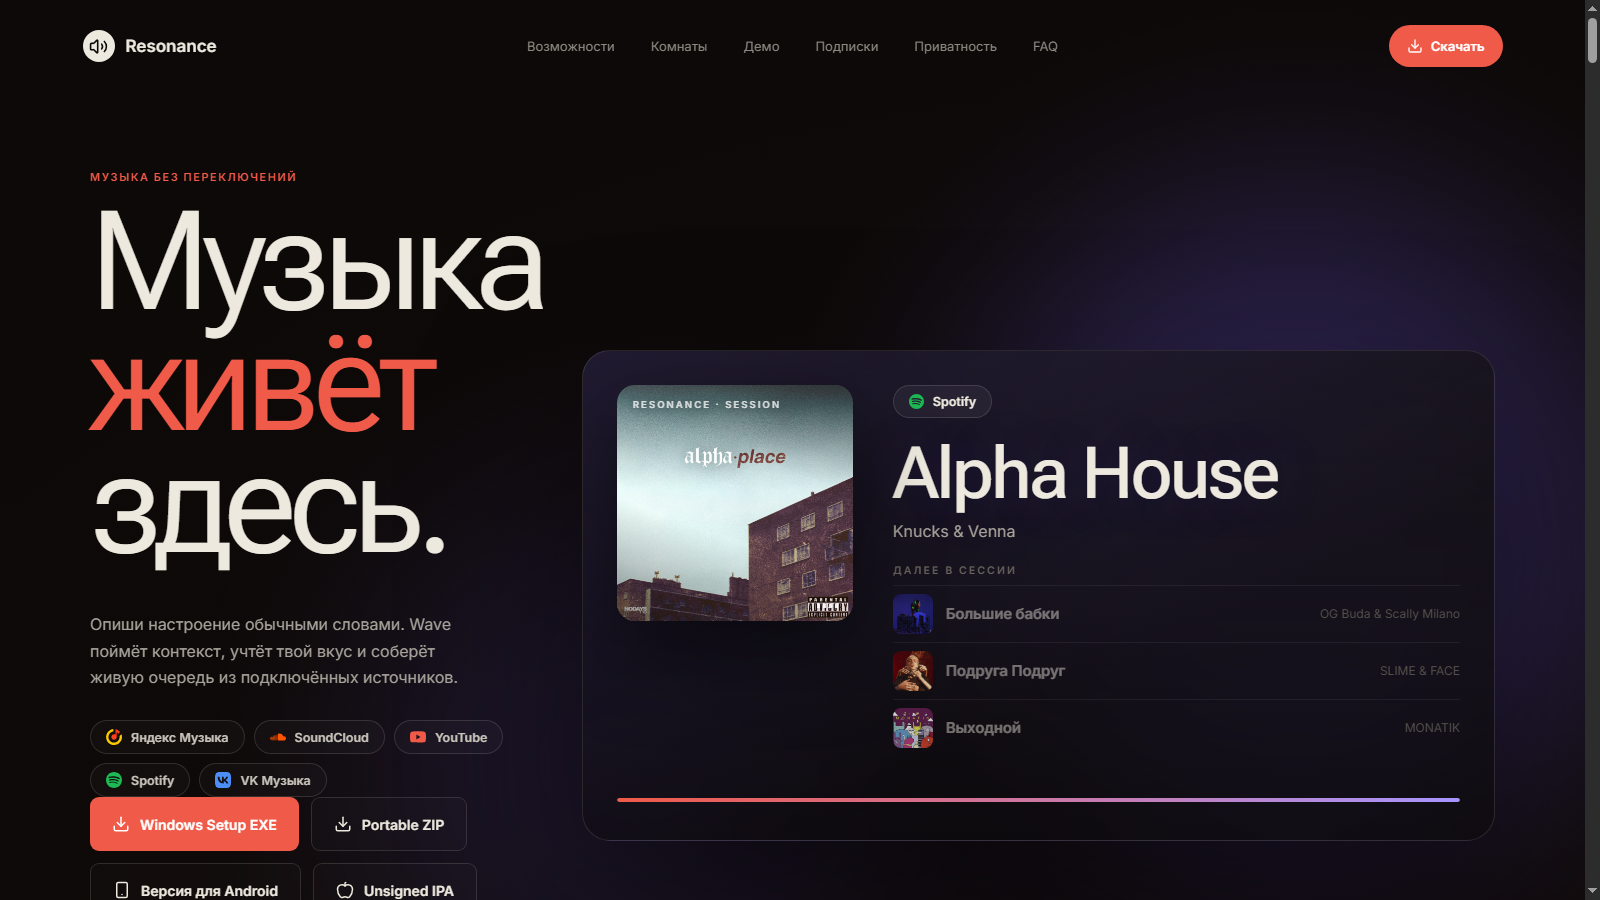
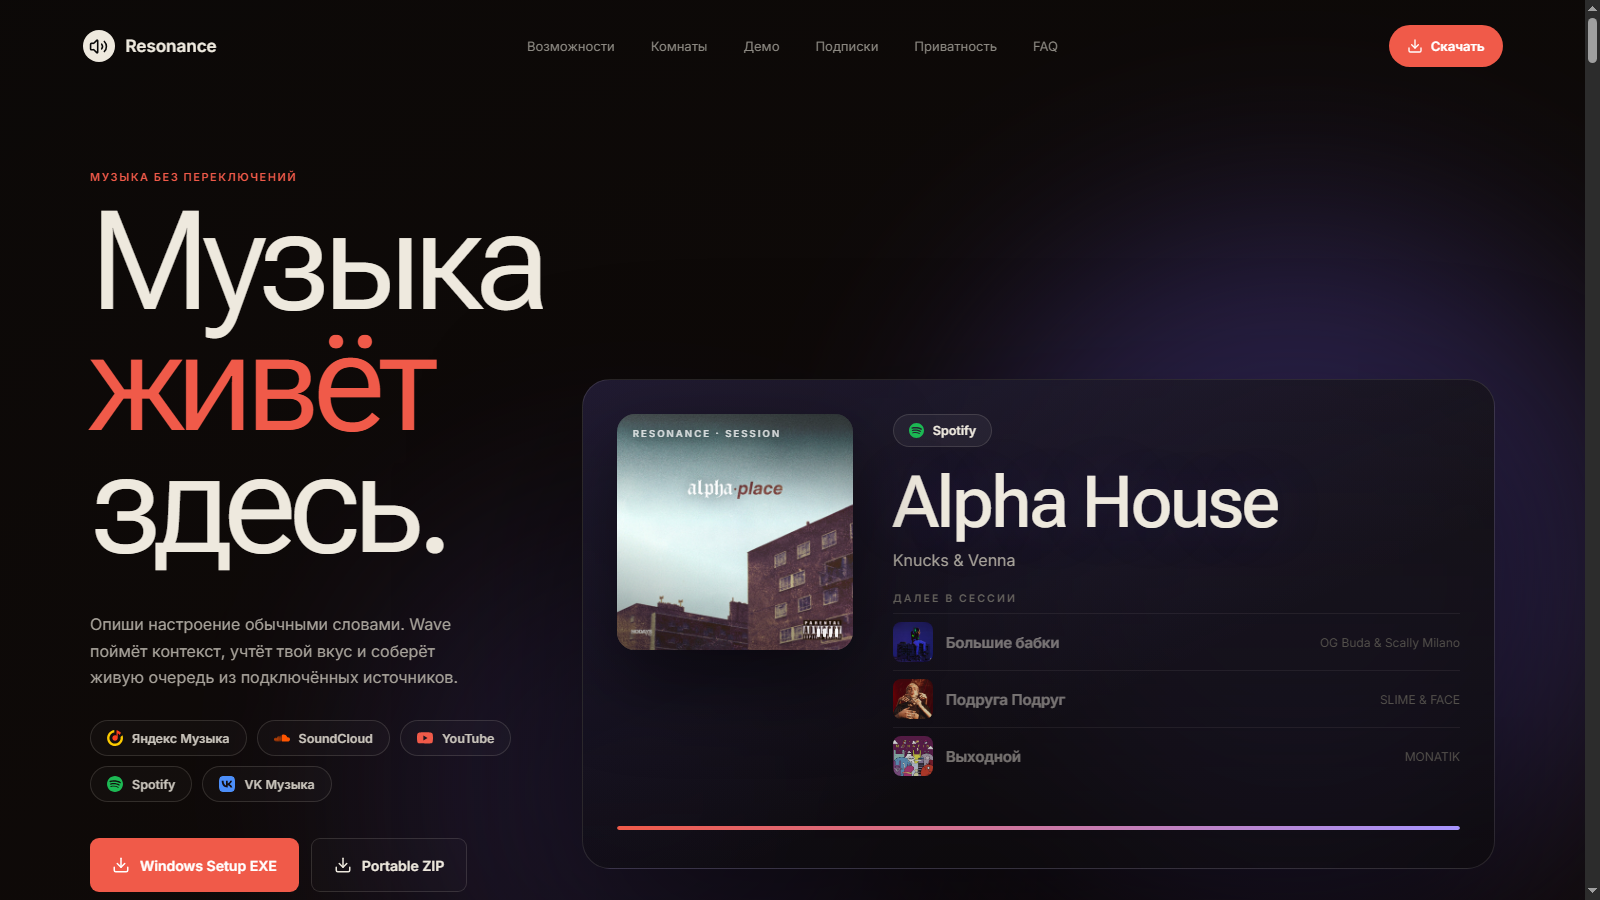
feat(landing): real session playlist across sections, hero spacing fixes

diff --git a/apps/landing/src/components/DemoSandbox.tsx b/apps/landing/src/components/DemoSandbox.tsx
@@ -1,45 +1,44 @@
 import { useEffect, useRef, useState, type FormEvent, type MouseEvent } from "react";
 import { Check, Link2, Music, Pause, Play, SkipBack, SkipForward, Sparkles } from "lucide-react";
+import { SESSION_TRACKS, type SessionTrack } from "../session";
 
-type Track = {
-  title: string;
-  artist: string;
-  source: "SoundCloud" | "Яндекс Музыка" | "Spotify" | "VK Музыка";
-  duration: number;
-};
+type Track = SessionTrack;
+
+const byTitle = (title: string) =>
+  SESSION_TRACKS.find((track) => track.title.startsWith(title)) as SessionTrack;
 
 const POOLS = {
   calm: [
-    { title: "Halcyon", artist: "Salt Harvest", source: "SoundCloud", duration: 254 },
-    { title: "Тихий свет", artist: "Муры", source: "Яндекс Музыка", duration: 198 },
-    { title: "Low Tide", artist: "Marén", source: "SoundCloud", duration: 302 },
-    { title: "Стеклянный воздух", artist: "Полночь", source: "Spotify", duration: 241 },
-    { title: "Amber Room", artist: "Odyl", source: "SoundCloud", duration: 276 },
-    { title: "Мягкий шум", artist: "Тихо", source: "VK Музыка", duration: 187 }
+    byTitle("Night, Blooming Jasmine"),
+    byTitle("так совпало"),
+    byTitle("Noir by anoufie"),
+    byTitle("Тревога"),
+    byTitle("1cePillow"),
+    byTitle("crush")
   ],
   fresh: [
-    { title: "Новое утро", artist: "Светлана Га", source: "Яндекс Музыка", duration: 203 },
-    { title: "First Light", artist: "Kavara", source: "Spotify", duration: 245 },
-    { title: "Свежий ветер", artist: "Аэро", source: "VK Музыка", duration: 219 },
-    { title: "Neon Bloom", artist: "Ilya Ra", source: "SoundCloud", duration: 261 },
-    { title: "Сонце", artist: "Далёко", source: "Яндекс Музыка", duration: 232 },
-    { title: "Studio Floor", artist: "Matcha", source: "SoundCloud", duration: 248 }
+    byTitle("crush"),
+    byTitle("Выходной"),
+    byTitle("Surround Sound"),
+    byTitle("Can't Tell Me Nothing"),
+    byTitle("так совпало"),
+    byTitle("Night, Blooming Jasmine")
   ],
   instrumental: [
-    { title: "Glasswork", artist: "Ensemble 12", source: "SoundCloud", duration: 287 },
-    { title: "Без слов", artist: "Ноты Тишины", source: "VK Музыка", duration: 224 },
-    { title: "Piano Dust", artist: "Oren", source: "Spotify", duration: 195 },
-    { title: "Струны", artist: "Квартет А", source: "Яндекс Музыка", duration: 268 },
-    { title: "Tape Loops", artist: "Ferric", source: "SoundCloud", duration: 312 },
-    { title: "Метроном", artist: "Часы", source: "Яндекс Музыка", duration: 176 }
+    byTitle("Noir by anoufie"),
+    byTitle("1cePillow"),
+    byTitle("так совпало"),
+    byTitle("Тревога"),
+    byTitle("Night, Blooming Jasmine"),
+    byTitle("crush")
   ],
   mixed: [
-    { title: "Halcyon", artist: "Salt Harvest", source: "SoundCloud", duration: 254 },
-    { title: "Новое утро", artist: "Светлана Га", source: "Яндекс Музыка", duration: 203 },
-    { title: "Glasswork", artist: "Ensemble 12", source: "VK Музыка", duration: 287 },
-    { title: "Тихий свет", artist: "Муры", source: "Spotify", duration: 198 },
-    { title: "Neon Bloom", artist: "Ilya Ra", source: "SoundCloud", duration: 261 },
-    { title: "Струны", artist: "Квартет А", source: "Яндекс Музыка", duration: 268 }
+    byTitle("crush"),
+    byTitle("Выходной"),
+    byTitle("Surround Sound"),
+    byTitle("так совпало"),
+    byTitle("Can't Tell Me Nothing"),
+    byTitle("Noir by anoufie")
   ]
 } satisfies Record<string, Track[]>;
 
@@ -53,14 +52,14 @@ const CHIPS: { label: string; pool: PoolKey }[] = [
 ];
 
 const LYRICS = [
-  { at: 0.02, text: "Ночь собирает свет в карманы," },
-  { at: 0.14, text: "город тише на полтона," },
-  { at: 0.27, text: "мы держим волну на границе сна —" },
-  { at: 0.4, text: "она ведёт, и очередь верна." },
-  { at: 0.55, text: "Строка за нотой не отстаёт," },
-  { at: 0.68, text: "и Wave поймёт, чего ты ждёшь." },
-  { at: 0.82, text: "А если станет тихо совсем —" },
-  { at: 0.92, text: "скажи «громче». Это не проблема." }
+  { at: 0.02, text: "Город гудит на низкой частоте," },
+  { at: 0.14, text: "фары режут ночь пополам." },
+  { at: 0.27, text: "Каждый трек ложится на ритм шагов —" },
+  { at: 0.4, text: "и очередь ловит тебя, как эхо." },
+  { at: 0.55, text: "Строка загорается раньше бита," },
+  { at: 0.68, text: "ни одной не теряя." },
+  { at: 0.82, text: "А если бросишь «побыстрее» —" },
+  { at: 0.92, text: "ночь ускорится. Она слышит." }
 ];
 
 const BASE_PROMPT = "вечерний фокус для работы";
@@ -225,7 +224,11 @@ export function DemoSandbox() {
                     String(i + 1).padStart(2, "0")
                   )}
                 </span>
-                <span className="queue-row-cover"><Music size={17} /></span>
+                {item.cover ? (
+                  <img className="queue-row-cover queue-row-cover-img" src={item.cover} alt="" loading="lazy" />
+                ) : (
+                  <span className="queue-row-cover" style={{ background: item.tint }}><Music size={17} /></span>
+                )}
                 <span>
                   <span className="queue-row-title">{item.title}</span>
                   <span className="queue-row-artist">{item.artist}</span>
@@ -237,10 +240,15 @@ export function DemoSandbox() {
         </div>
 
         <div className="demo-pane">
-          <div className="demo-player-cover"><Music size={44} /></div>
+          <div
+            className="demo-player-cover"
+            style={track.cover ? { backgroundImage: `url(${track.cover})`, backgroundSize: "cover", backgroundPosition: "center" } : { background: track.tint }}
+          >
+            {track.cover ? null : <Music size={44} />}
+          </div>
           <span className="queue-source" data-source={track.source}>{track.source}</span>
           <h3 className="demo-player-title">{track.title}</h3>
-          <p className="demo-player-artist">{track.artist} · Demo</p>
+          <p className="demo-player-artist">{track.artist}</p>
           <div className="demo-controls">
             <button
               className="demo-btn"

diff --git a/apps/landing/src/styles.css b/apps/landing/src/styles.css
@@ -70,12 +70,12 @@ h1, h2 {
 .hero h1 { font-size: clamp(86px, 8.7vw, 138px); line-height: .88; }
 h1 em, h2 em { color: var(--coral); font-style: normal; }
 .hero-lead { max-width: 390px; margin: 45px 0 30px; color: #a7a29a; font-size: 16px; line-height: 1.65; }
-.hero-actions { display: flex; align-items: center; flex-wrap: wrap; gap: 12px; }
+.hero-actions { display: flex; align-items: center; flex-wrap: wrap; gap: 12px; margin-top: 36px; }
 .button { min-height: 54px; padding: 0 22px; display: inline-flex; align-items: center; justify-content: center; gap: 10px; border-radius: 9px; font-size: 14px; font-weight: 600; transition: .22s ease; }
 .button-primary { color: #fff; background: var(--coral); }
 .button-secondary { border: 1px solid var(--line); background: rgba(255,255,255,.015); }
 .button-secondary:hover { border-color: rgba(238,233,222,.34); background: rgba(255,255,255,.045); transform: translateY(-2px); }
-.release-note { margin: 28px 0 0; color: #66635e; font-size: 12px; }
+.release-note { max-width: 470px; margin: 34px 0 0; color: #66635e; font-size: 12px; line-height: 1.7; }
 .hero-visual { position: relative; z-index: 2; min-width: 0; }
 
 /* --- Hero Stage: живая сессия --- */
@@ -121,8 +121,8 @@ h1 em, h2 em { color: var(--coral); font-style: normal; }
 @keyframes stage-marquee-run { to { transform: translateX(-50%); } }
 
 /* --- Чипы провайдеров --- */
-.provider-chips { display: flex; flex-wrap: wrap; gap: 9px; margin: 26px 0 0; max-width: 430px; }
-.provider-chip { display: inline-flex; align-items: center; gap: 9px; padding: 8px 15px; border: 1px solid var(--line); border-radius: 999px; background: rgba(255,255,255,.025); color: #c9c4bb; font-size: 12.5px; font-weight: 600; }
+.provider-chips { display: flex; flex-wrap: wrap; gap: 10px; margin: 30px 0 0; max-width: 470px; }
+.provider-chip { display: inline-flex; align-items: center; gap: 9px; padding: 9px 16px; border: 1px solid var(--line); border-radius: 999px; background: rgba(255,255,255,.025); color: #c9c4bb; font-size: 12.5px; font-weight: 600; }
 .provider-chip img { width: 16px; height: 16px; object-fit: contain; border-radius: 4px; }
 .scroll-cue { position: absolute; z-index: 3; bottom: 72px; left: 50%; width: 48px; height: 48px; display: grid; place-items: center; color: var(--paper); animation: cue 1.6s ease-in-out infinite; }
 @keyframes cue { 50% { transform: translateY(8px); } }
@@ -154,6 +154,7 @@ h1 em, h2 em { color: var(--coral); font-style: normal; }
 .queue-row { display: grid; grid-template-columns: 26px 44px 1fr auto; align-items: center; gap: 14px; padding: 12px 0; border-top: 1px solid rgba(238,233,222,.08); }
 .queue-row-index { display: inline-flex; justify-content: center; color: #66635e; font-size: 12px; font-variant-numeric: tabular-nums; }
 .queue-row-cover { width: 44px; height: 44px; border-radius: 8px; background: linear-gradient(135deg, #f05a49, #57190f); display: grid; place-items: center; color: rgba(255,255,255,.75); }
+.queue-row-cover-img { object-fit: cover; }
 .queue-row:nth-child(2n) .queue-row-cover { background: linear-gradient(135deg, #ffd234, #6b4a06); }
 .queue-row-title { display: block; margin: 0; font-size: 14px; font-weight: 560; }
 .queue-row-artist { display: block; margin: 3px 0 0; color: #817d76; font-size: 12px; }

diff --git a/apps/landing/src/session.ts b/apps/landing/src/session.ts
@@ -1,0 +1,87 @@
+export type SessionTrack = {
+  title: string;
+  artist: string;
+  source: "SoundCloud" | "Яндекс Музыка" | "Spotify" | "VK Музыка";
+  cover?: string;
+  tint: string;
+  duration: number;
+};
+
+/** Плейлист сессии — реальные треки из Resonance. */
+export const SESSION_TRACKS: SessionTrack[] = [
+  {
+    title: "crush",
+    artist: "2hollis",
+    source: "SoundCloud",
+    cover: "/assets/covers/crush.jpg",
+    tint: "linear-gradient(135deg, #8f7cf5, #241a5e)",
+    duration: 171
+  },
+  {
+    title: "Выходной",
+    artist: "MONATIK",
+    source: "VK Музыка",
+    cover: "/assets/covers/vyhodnoy.jpg",
+    tint: "linear-gradient(135deg, #f2a03d, #4a220c)",
+    duration: 184
+  },
+  {
+    title: "Night, Blooming Jasmine . (Prod Me)",
+    artist: "fakemink",
+    source: "SoundCloud",
+    tint: "linear-gradient(135deg, #5fb0f0, #122a4a)",
+    duration: 195
+  },
+  {
+    title: "так совпало",
+    artist: "wavescale",
+    source: "Яндекс Музыка",
+    cover: "/assets/covers/tak-sovpalo.jpg",
+    tint: "linear-gradient(135deg, #3fc98f, #0c2e20)",
+    duration: 168
+  },
+  {
+    title: "Noir by anoufie",
+    artist: "anoufie",
+    source: "SoundCloud",
+    cover: "/assets/covers/noir.jpg",
+    tint: "linear-gradient(135deg, #5a5f6b, #15161c)",
+    duration: 174
+  },
+  {
+    title: "Surround Sound (feat. 21 Savage & Baby Tate)",
+    artist: "JID",
+    source: "Spotify",
+    cover: "/assets/covers/surround-sound.jpg",
+    tint: "linear-gradient(135deg, #ef5570, #3d0f1c)",
+    duration: 212
+  },
+  {
+    title: "1cePillow - WIN4BLS",
+    artist: "Andforel",
+    source: "VK Музыка",
+    tint: "linear-gradient(135deg, #e0b64a, #3a2a08)",
+    duration: 187
+  },
+  {
+    title: "Can't Tell Me Nothing",
+    artist: "Kanye West",
+    source: "Яндекс Музыка",
+    cover: "/assets/covers/cant-tell.jpg",
+    tint: "linear-gradient(135deg, #c9c4bb, #26241f)",
+    duration: 232
+  },
+  {
+    title: "Тревога",
+    artist: "Whole Lotta Swag",
+    source: "VK Музыка",
+    tint: "linear-gradient(135deg, #f05a49, #401511)",
+    duration: 158
+  }
+];
+
+export function trackByTitle(title: string): SessionTrack {
+  const found = SESSION_TRACKS.find((track) => track.title === title);
+  if (!found) throw new Error(`Unknown session track: ${title}`);
+  return found;
+}

diff --git a/apps/landing/src/components/QueueCinema.tsx b/apps/landing/src/components/QueueCinema.tsx
@@ -2,18 +2,19 @@ import { useLayoutEffect, useRef } from "react";
 import gsap from "gsap";
 import { ScrollTrigger } from "gsap/ScrollTrigger";
 import { Music, Sparkles } from "lucide-react";
+import { SESSION_TRACKS, type SessionTrack } from "../session";
 
 gsap.registerPlugin(ScrollTrigger);
 
 const PROMPT = "вечерний фокус: спокойнее и немного нового";
 
-const TRACKS = [
-  { title: "Halcyon", artist: "Salt Harvest", source: "SoundCloud" },
-  { title: "Тихий свет", artist: "Муры", source: "Яндекс Музыка" },
-  { title: "Low Tide", artist: "Marén", source: "Spotify" },
-  { title: "Стеклянный воздух", artist: "Полночь", source: "VK Музыка" },
-  { title: "Amber Room", artist: "Odyl", source: "SoundCloud" },
-  { title: "Сонце", artist: "Далёко", source: "Яндекс Музыка" }
+const TRACKS: SessionTrack[] = [
+  SESSION_TRACKS[0],
+  SESSION_TRACKS[1],
+  SESSION_TRACKS[2],
+  SESSION_TRACKS[3],
+  SESSION_TRACKS[5],
+  SESSION_TRACKS[7]
 ];
 
 export function QueueCinema() {
@@ -105,7 +106,11 @@ export function QueueCinema() {
                       String(i + 1).padStart(2, "0")
                     )}
                   </span>
-                  <span className="queue-row-cover"><Music size={17} /></span>
+                  {track.cover ? (
+                    <img className="queue-row-cover queue-row-cover-img" src={track.cover} alt="" loading="lazy" />
+                  ) : (
+                    <span className="queue-row-cover" style={{ background: track.tint }}><Music size={17} /></span>
+                  )}
                   <span>
                     <span className="queue-row-title">{track.title}</span>
                     <span className="queue-row-artist">{track.artist}</span>

diff --git a/apps/landing/src/components/RoomsCinema.tsx b/apps/landing/src/components/RoomsCinema.tsx
@@ -77,17 +77,17 @@ export function RoomsCinema() {
           </div>
           <div className="room-tracks">
             <div className="room-track room-track-a">
-              <span className="room-mock-cover" />
+              <span className="room-mock-cover" style={{ backgroundImage: "url(/assets/covers/tak-sovpalo.jpg)", backgroundSize: "cover", backgroundPosition: "center" }} />
               <div>
-                <p className="room-mock-title">Low Tide</p>
-                <p className="room-mock-artist">Marén · SoundCloud</p>
+                <p className="room-mock-title">так совпало</p>
+                <p className="room-mock-artist">wavescale · Яндекс Музыка</p>
               </div>
             </div>
             <div className="room-track room-track-b">
-              <span className="room-mock-cover" />
+              <span className="room-mock-cover" style={{ backgroundImage: "url(/assets/covers/vyhodnoy.jpg)", backgroundSize: "cover", backgroundPosition: "center" }} />
               <div>
-                <p className="room-mock-title">Стеклянный воздух</p>
-                <p className="room-mock-artist">Полночь · Spotify</p>
+                <p className="room-mock-title">Выходной</p>
+                <p className="room-mock-artist">MONATIK · VK Музыка</p>
               </div>
             </div>
           </div>

diff --git a/apps/landing/src/components/LyricsCinema.tsx b/apps/landing/src/components/LyricsCinema.tsx
@@ -5,14 +5,14 @@ import { ScrollTrigger } from "gsap/ScrollTrigger";
 gsap.registerPlugin(ScrollTrigger);
 
 const LINES = [
-  "Ночь собирает свет в карманы,",
-  "и город тише на полтона.",
-  "Мы держим волну на границе сна —",
-  "она ведёт, и очередь верна.",
-  "Строка за нотой поспевает,",
-  "ни одной не пропуская.",
-  "А если скажешь «спокойнее» —",
-  "волна подстроится. Ей можно верить."
+  "Город гудит на низкой частоте,",
+  "и фары режут ночь пополам.",
+  "Каждый трек ложится на ритм шагов —",
+  "очередь ловит тебя, как эхо.",
+  "Строка загорается раньше бита,",
+  "ни одной не теряя.",
+  "А если бросишь «побыстрее» —",
+  "ночь ускорится. Ей можно верить."
 ];
 
 export function LyricsCinema() {
